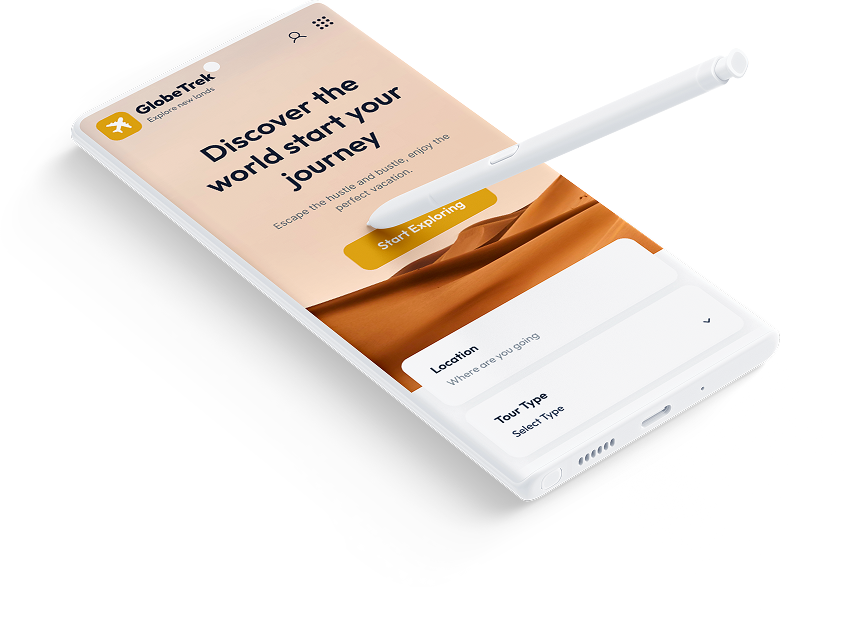
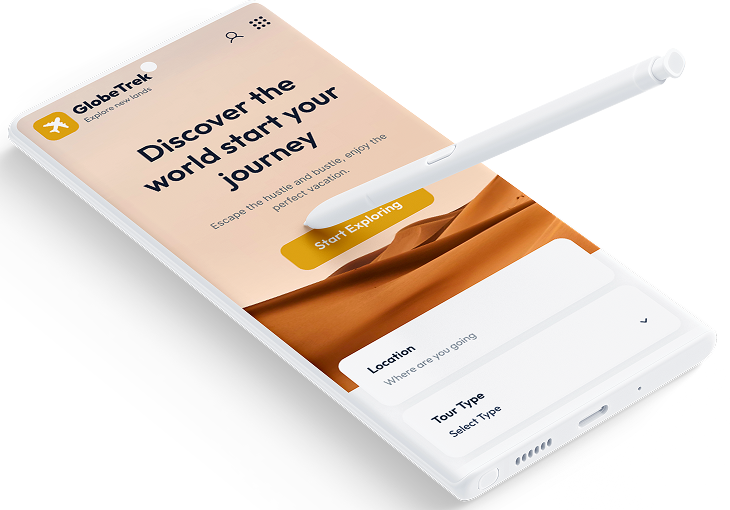
up

diff --git a/css/style.css b/css/style.css
@@ -5532,6 +5532,19 @@ h5 {
   .tf-destination .content .subtitle {
     font-size: 15px;
   }
+  .tf-promo-section .flat-img-with-text {
+    flex-direction: column !important;
+    gap: 120px !important;
+  }
+  .tf-promo-section .flat-img-with-text .content-left {
+    width: 100% !important;
+  }
+  .tf-promo-section .flat-img-with-text .content-left .banner-device {
+    margin: -145px auto;
+  }
+  .tf-promo-section .flat-img-with-text .content-right {
+    width: 100% !important;
+  }
 }
 @media (max-width: 1199px) {
   .header .menu-nav {
@@ -7697,46 +7710,44 @@ h5 {
 }
 
 .tf-promo-section {
+  border-radius: 16px;
   margin-bottom: 120px;
 }
 .tf-promo-section .flat-img-with-text {
   gap: 0;
+  padding: 100px 0;
 }
 .tf-promo-section .flat-img-with-text .box-title .title {
   margin-bottom: 12px;
 }
-.tf-promo-section .content-left {
-  height: 100%;
-  padding: 100px 0;
-  width: 60%;
-}
-.tf-promo-section .banner-device {
-  height: 100%;
-  margin: -145px 0 -229px -200px;
-  padding: 0;
-}
-.tf-promo-section .banner-device img {
-  max-width: 850px;
-  max-height: 613px;
-  object-fit: cover;
-}
-.tf-promo-section .content-right {
-  padding: 100px 0;
+.tf-promo-section .flat-img-with-text .content-right {
   justify-content: center;
   align-items: flex-start !important;
-  width: 40%;
 }
-.tf-promo-section .content-right .action-download {
+.tf-promo-section .flat-img-with-text .content-left {
+  height: 100%;
+}
+.tf-promo-section .action-download {
   align-items: center;
   justify-content: flex-start;
 }
-.tf-promo-section .content-right .action-download .tf-btn {
+.tf-promo-section .action-download .tf-btn {
   background-color: var(--heading-color);
   border-color: var(--heading-color);
   padding: 14px 12px;
 }
-.tf-promo-section .content-right .action-download .tf-btn:hover {
+.tf-promo-section .action-download .tf-btn:hover {
   border: 1px solid var(--primary-color);
+}
+.tf-promo-section .banner-device {
+  height: 100%;
+  margin: -145px 0 -153px -169px;
+  padding: 0;
+}
+.tf-promo-section .banner-device img {
+  max-width: 770px;
+  max-height: 545px;
+  object-fit: cover;
 }
 
 /*# sourceMappingURL=style.css.map */

diff --git a/sass/_section.scss b/sass/_section.scss
@@ -1922,55 +1922,56 @@
 // =============Promo-section======================
 .tf-promo-section {
 
-
+    border-radius: 16px;
     margin-bottom: 120px;
 
     .flat-img-with-text {
         gap: 0;
+        padding: 100px 0;
 
         .box-title .title {
             margin-bottom: 12px;
         }
+
+        .content-right {
+
+            justify-content: center;
+            align-items: flex-start !important;
+        }
+
+        .content-left {
+            height: 100%;
+        }
     }
 
-    .content-left {
-        height: 100%;
-        padding: 100px 0;
-        width: 60%;
+    .action-download {
+        align-items: center;
+        justify-content: flex-start;
+
+        .tf-btn {
+            background-color: var(--heading-color);
+            border-color: var(--heading-color);
+            padding: 14px 12px;
+
+            &:hover {
+                border: 1px solid var(--primary-color);
+            }
+        }
     }
+
 
     .banner-device {
         height: 100%;
-        margin: -145px 0 -229px -200px;
+        margin: -145px 0 -153px -169px;
         padding: 0;
 
 
         img {
-            max-width: 850px;
-            max-height: 613px;
+            max-width: 770px;
+            max-height: 545px;
             object-fit: cover;
         }
     }
 
-    .content-right {
-        padding: 100px 0;
-        justify-content: center;
-        align-items: flex-start !important;
-        width: 40%;
 
-        .action-download {
-            align-items: center;
-            justify-content: flex-start;
-
-            .tf-btn {
-                background-color: var(--heading-color);
-                border-color: var(--heading-color);
-                padding: 14px 12px;
-
-                &:hover {
-                    border: 1px solid var(--primary-color);
-                }
-            }
-        }
-    }
 }

diff --git a/sass/_responsive.scss b/sass/_responsive.scss
@@ -108,6 +108,26 @@
          }
       }
    }
+
+   .tf-promo-section {
+      .flat-img-with-text {
+         flex-direction: column !important;
+         gap: 120px !important;
+
+         .content-left {
+            width: 100% !important;
+
+            .banner-device {
+               margin: -145px auto;
+            }
+         }
+
+         .content-right {
+            width: 100% !important;
+         }
+      }
+
+   }
 }
 
 @media (max-width: 1199px) {

diff --git a/homepage3.html b/homepage3.html
@@ -2497,7 +2497,7 @@
         <div class="flat-img-with-text">
           <div class="content-left animate-ltr">
             <div class="banner-device">
-              <img src="./images/backgronud/bg-phone.png" alt="image" />
+              <img src="./images/backgronud/Rectangle.png" alt="image" />
             </div>
           </div>
           <div class="content-right">

diff --git a/homepage5.html b/homepage5.html
@@ -3784,7 +3784,7 @@
         <div class="flat-img-with-text">
           <div class="content-left animate-ltr">
             <div class="banner-device">
-              <img src="./images/backgronud/bg-phone.png" alt="image" />
+              <img src="./images/backgronud/Rectangle.png" alt="image" />
             </div>
           </div>
           <div class="content-right">
